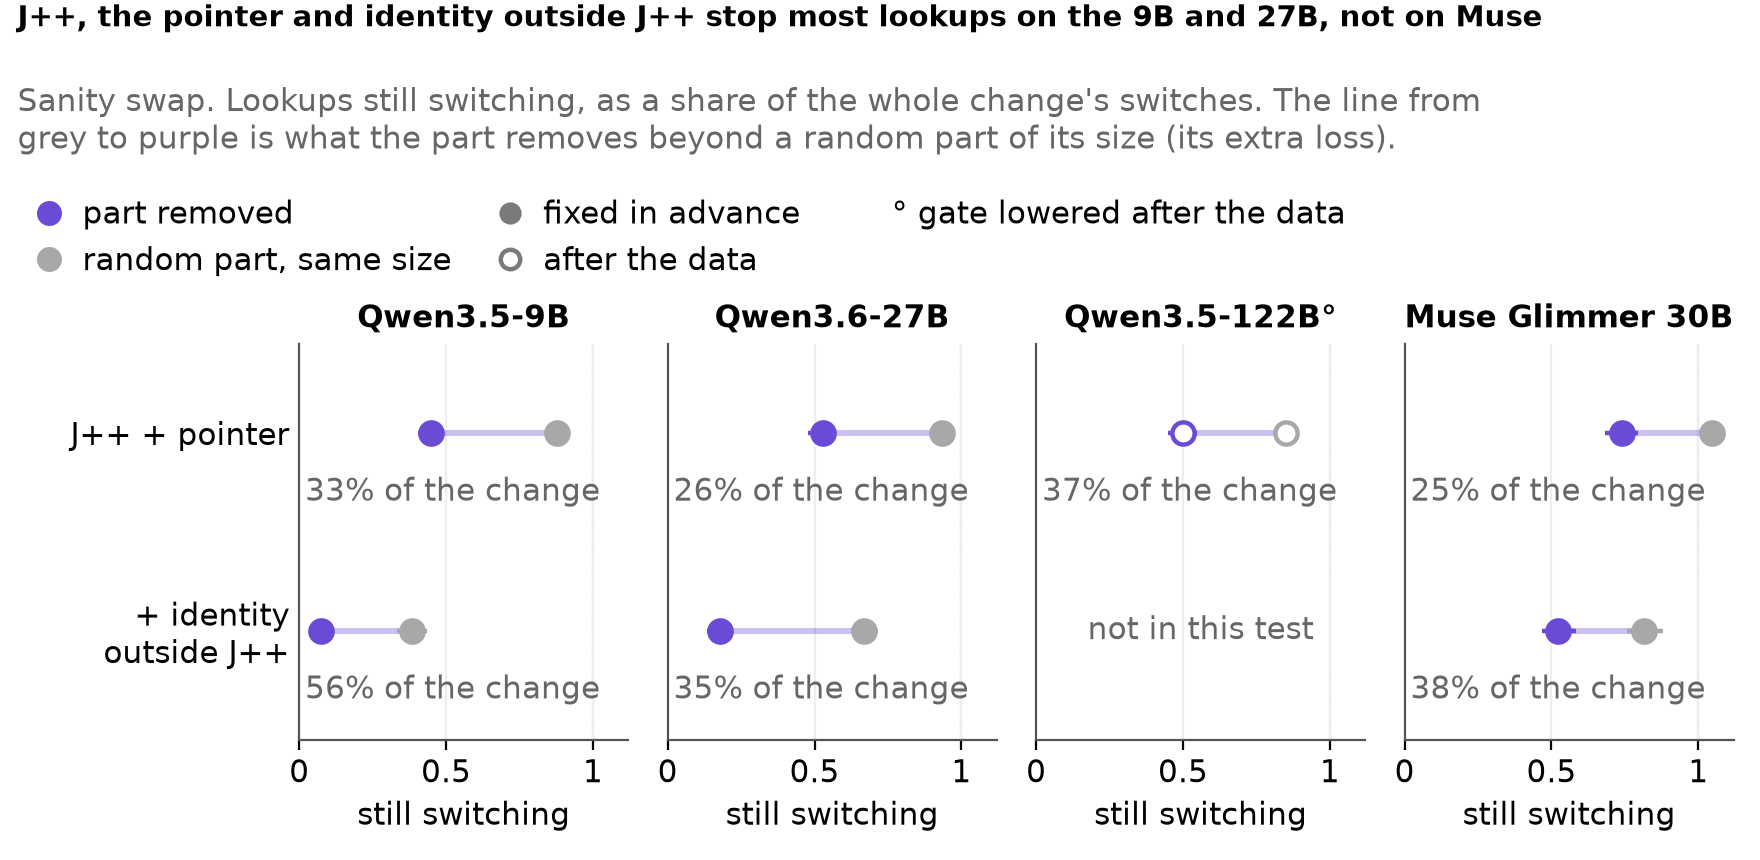
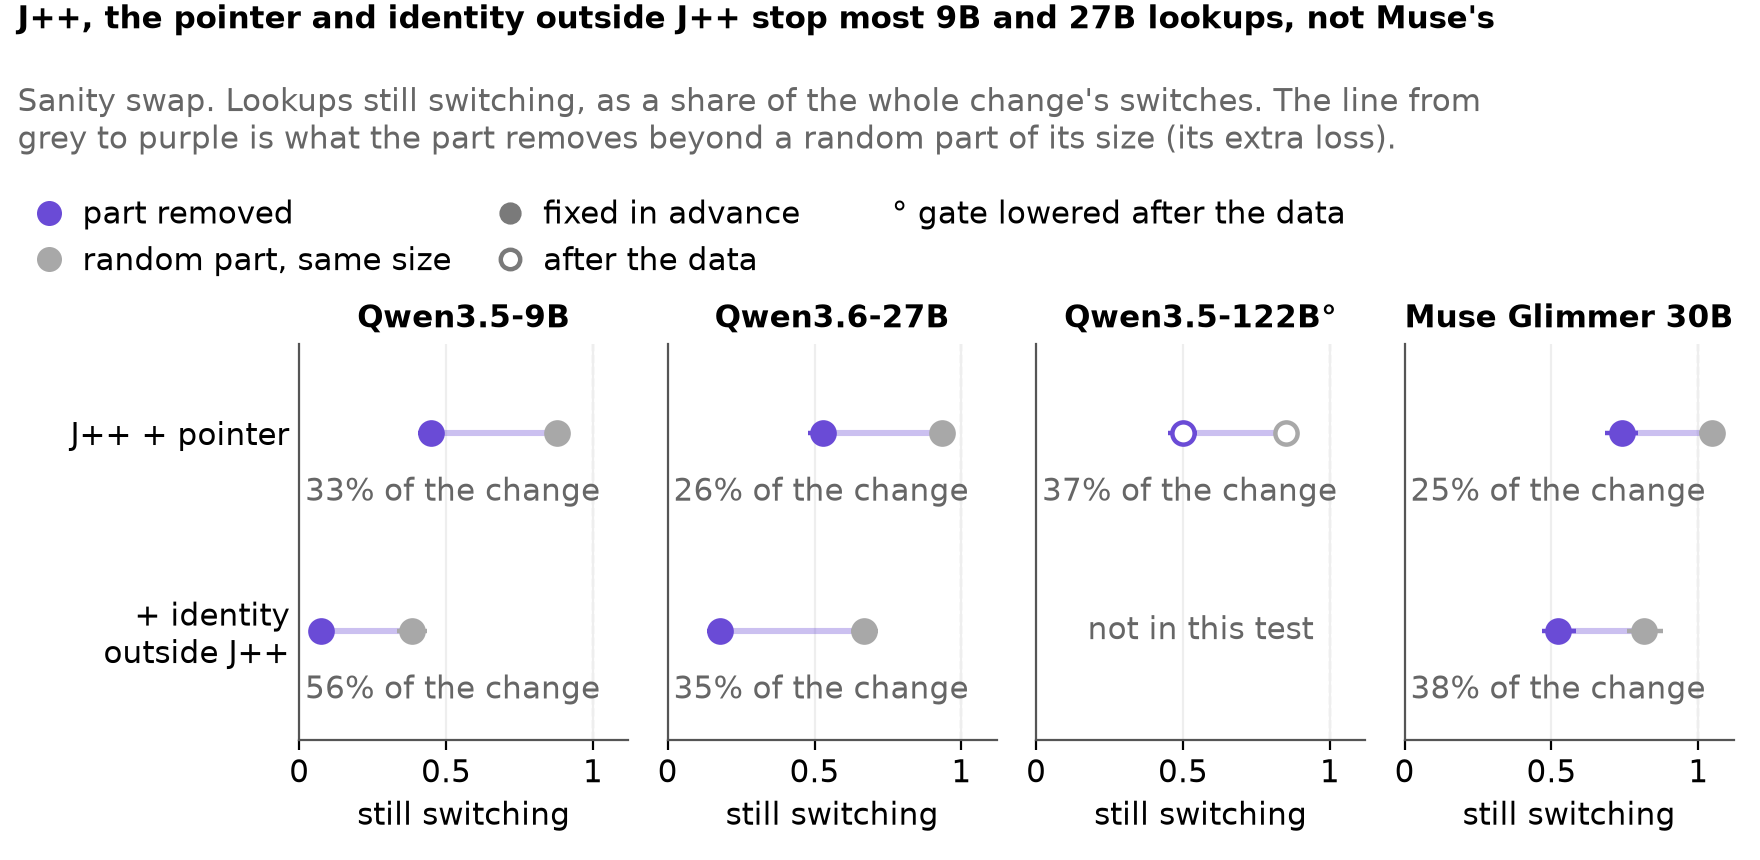
Fig. 10 title at 11 pt (Dan ~22:10): 'J++, the pointer and identity outside J++ stop most 9B and 27B lookups, not Muse's'; README alt text with it

Changed region(s): [[0.0, 0.0, 0.875, 0.0605]]

diff --git a/scripts/readme_story_figures.py b/scripts/readme_story_figures.py
@@ -1200,7 +1200,7 @@ def f10_left(plt) -> None:
     one-axis version was hard to read)."""
     fig, axes = plt.subplots(1, 4, figsize=(S.WIDTH, 4.3), sharey=True)
     fig.subplots_adjust(left=0.17, right=0.985, top=0.60, bottom=0.14, wspace=0.12)
-    S.title(fig, "J++, the pointer and identity outside J++ stop most lookups on the 9B and 27B, not on Muse",
+    S.title(fig, "J++, the pointer and identity outside J++ stop most 9B and 27B lookups, not Muse's",
             "Sanity swap. Lookups still switching, as a share of the whole change's switches. The line from\n"
             "grey to purple is what the part removes beyond a random part of its size (its extra loss).", limit=90)  # fmt: skip
     grey = "#a8a8a8"

diff --git a/README.md b/README.md
@@ -10,7 +10,7 @@
 - **The pointer we found is narrow:** it mostly separates the first-mentioned item from the rest and explains little outside simple scenes. About half of the lookup's route around the lens is still open.
 - **For monitoring:** a lens on the bridge word shows which item the model is using, but not where in the context the model will read its answer from.
 
-**Status.** Qwen3.5-9B, Qwen3.6-27B, Qwen3.5-122B-A10B (FP8) and Muse Glimmer 30B (another family); 26 Oct 2026. All numbers unverified until hand-checked (Section 7). Built at 1fad1c34 from the run files.
+**Status.** Qwen3.5-9B, Qwen3.6-27B, Qwen3.5-122B-A10B (FP8) and Muse Glimmer 30B (another family); 26 Oct 2026. All numbers unverified until hand-checked (Section 7). Built at ec8f7a9b from the run files.
 
 ## Setup
 
@@ -122,7 +122,7 @@ How far does the pointer we found reach?
 
 - **About half of the route is unexplained:** with J++ and the pointer removed together, about half of the lookups still switch. Removing identity outside J++ as well removes most of what is left on the 9B and 27B, far more than a random part of the same share; on Muse half still switch (table). These parts are 35%-56% of the change, so a random part also removes most on the 9B.
 
-![J++, the pointer and identity outside J++ stop most lookups on the 9B and 27B, not on Muse](figures/story/fig10_what_is_left.png)
+![J++, the pointer and identity outside J++ stop most 9B and 27B lookups, not Muse's](figures/story/fig10_what_is_left.png)
 *Fig. 10.*
 
 | Sanity swap, J++ + pointer + identity outside J++ removed | Qwen3.5-9B | Qwen3.6-27B | Qwen3.5-122B | Muse Glimmer 30B |

diff --git a/docs/README.template.md b/docs/README.template.md
@@ -122,7 +122,7 @@ How far does the pointer we found reach?
 
 - **About half of the route is unexplained:** with J++ and the pointer removed together, about half of the lookups still switch. Removing identity outside J++ as well removes most of what is left on the 9B and 27B, far more than a random part of the same share; on Muse half still switch (table). These parts are {{num|rtd_share_C0_jpp+alf+idout_27b}}-{{num|rtd_share_C0_jpp+alf+idout_9b}} of the change, so a random part also removes most on the 9B.
 
-![J++, the pointer and identity outside J++ stop most lookups on the 9B and 27B, not on Muse](figures/story/fig10_what_is_left.png)
+![J++, the pointer and identity outside J++ stop most 9B and 27B lookups, not Muse's](figures/story/fig10_what_is_left.png)
 *Fig. 10.*
 
 | Sanity swap, J++ + pointer + identity outside J++ removed | Qwen3.5-9B | Qwen3.6-27B | Qwen3.5-122B | Muse Glimmer 30B |
